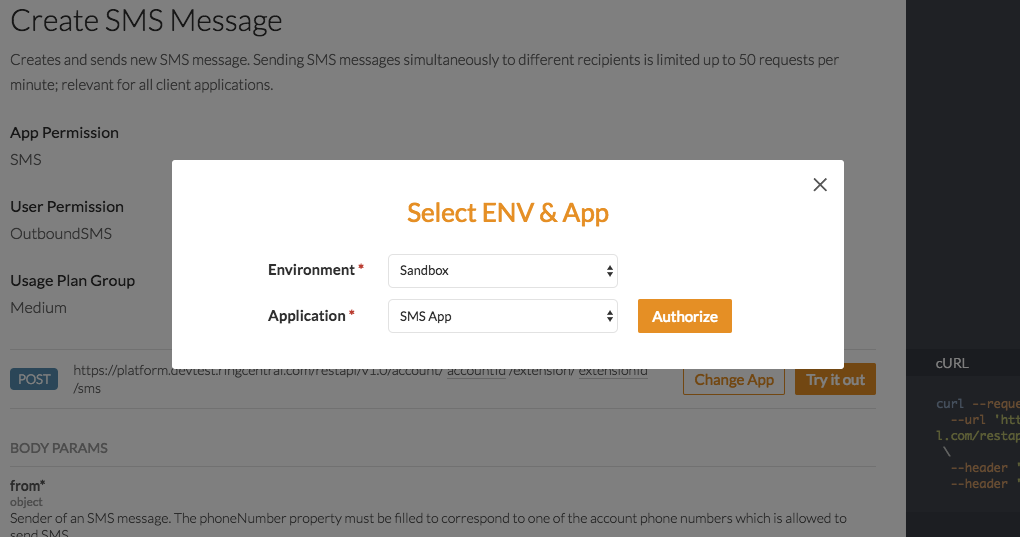
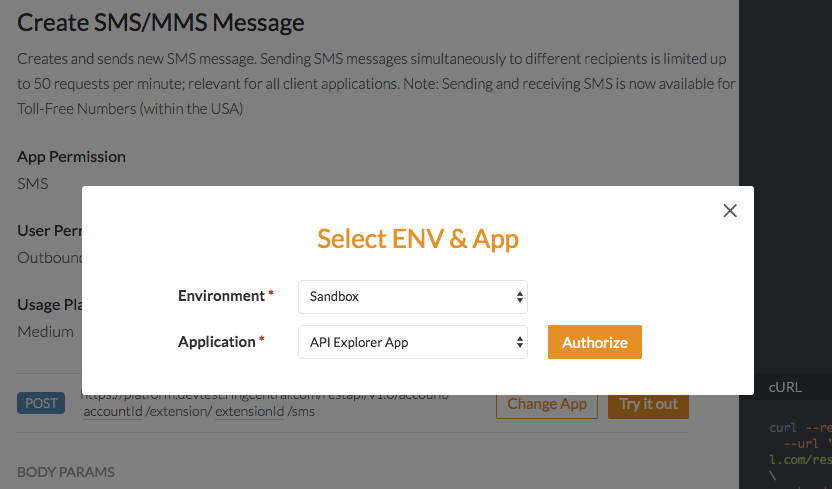
Updating docs for API Explorer

diff --git a/docs/basics/explorer.md b/docs/basics/explorer.md
@@ -1,14 +1,14 @@
 no_breadcrumb:true
 
-# API Explorer
+# Exploring the API
 
-The RingCentral API Explorer serves as a reference and test bench for all of RingCentral's API. This allows you to make calls with zero code. Let's get started.
+The [RingCentral API Explorer](https://developer.ringcentral.com/api-reference) serves not only as a reference, but also as a test bench for all of RingCentral's APIs. The Explorer allows one to make calls with zero code. Let's use the API Explorer to send an SMS message without writing any code. 
 
 ## Create an App
 
 The first thing we need to do is create an app in the RingCentral Developer Portal. This can be done quickly by clicking the "Create RingCentral App" button below. Just click the button, enter a name and description if you choose, and click the "Create" button. If you do not yet have a RingCentral account, you will be prompted to create one.
 
-<a target="_new" href="https://developer.ringcentral.com/new-app?name=Test+Application&desc=A+generic+app+to+demo+API+calls+on+RingCentral&public=false&type=ServerOther&carriers=7710,7310,3420&permissions=SMS,ReadMessages&redirectUri=" class="btn btn-primary">Create RingCentral App</a>
+<a target="_new" href="https://developer.ringcentral.com/new-app?name=API+Explorer+App&desc=A+generic+app+to+demo+API+calls+on+RingCentral&public=false&type=ServerOther&carriers=7710,7310,3420&permissions=SMS,ReadMessages,Contacts,EditExtensions,EditMessages,EditPresence,Faxes,Glip,InternalMessages,Meetings,ReadAccounts,ReadCallLog,ReadCallRecording,ReadContacts,ReadPresence,RingOut,VoipCalling&redirectUri=" class="btn btn-primary">Create RingCentral App</a>
 <a class="btn-link btn-collapse" data-toggle="collapse" href="#create-app-instructions" role="button" aria-expanded="false" aria-controls="create-app-instructions">Show detailed instructions</a>
 
 <div class="collapse" id="create-app-instructions">
@@ -29,16 +29,36 @@ The first thing we need to do is create an app in the RingCentral Developer Port
 </ol>
 </div>
 
-### Sign-in and Select App
+### Access the RingCentral API Explorer
+
+<a class="btn btn-secondary" target="_new" href="https://developer.ringcentral.com/api-reference#SMS-and-MMS-sendSMS">Open the API Explorer &raquo;</a>
+
+Scroll to the "SMS section" of the API Explorer. You should see this:
+
+<img src="../../../img/api-expl-sms.png" class="img-fluid">
+
+### Sign-in and Select Your App
 
 Click the "Sign-in to try it out" button, and login to your developer account. When you are done, click the "Change App" button.
 
-<img src="../../../img/explorer_select_app.png" class="img-fluid">
+<img src="../../../img/api-expl-change.png" class="img-fluid">
 
 Then select the app your created in the first step.
 
-### Try it out
+### Set Call Parameters
 
-Scroll to the API you want to try, specify query parameters then click the "Try it out" button. You can see the response on the right-hand side pane.
+Now, set the API call parameters for the "from," "to" and "text" fields. For the "from" field use your account's phone number, and for the "to" field use your personal mobile phone number.
 
-[Try now](https://developer.ringcentral.com/api-reference)
+!!! info "Live Sample Code"
+
+    You should notice that the `curl` command displayed in the right-hand column changes as you enter in parameters. You should be able to copy and paste this command to your console and execute the API call that way as well. 
+
+<img src="../../../img/api-expl-params.png" class="img-fluid">
+
+### Try It Out
+
+Click the "Try it out" button to send yourself an SMS. You can see the response on the right-hand side pane.
+
+<img src="../../../img/api-expl-result.png" class="img-fluid">
+
+<a class="btn btn-primary" href="https://developer.ringcentral.com/api-reference">Try the API Explorer Now</a>
